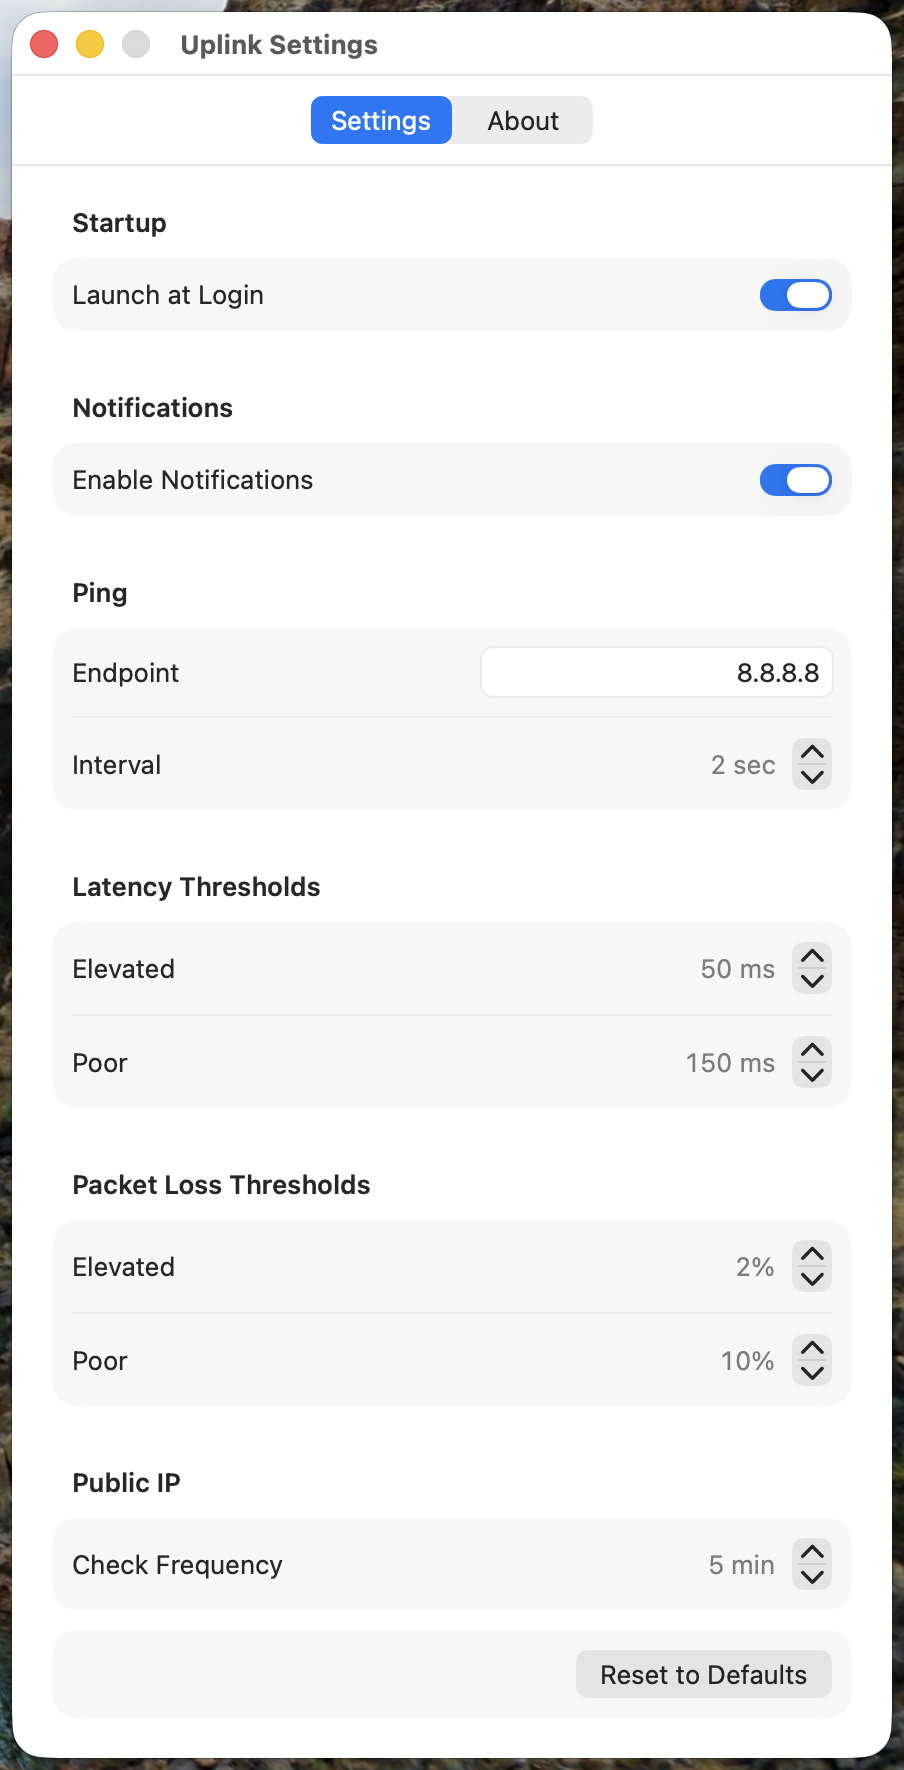
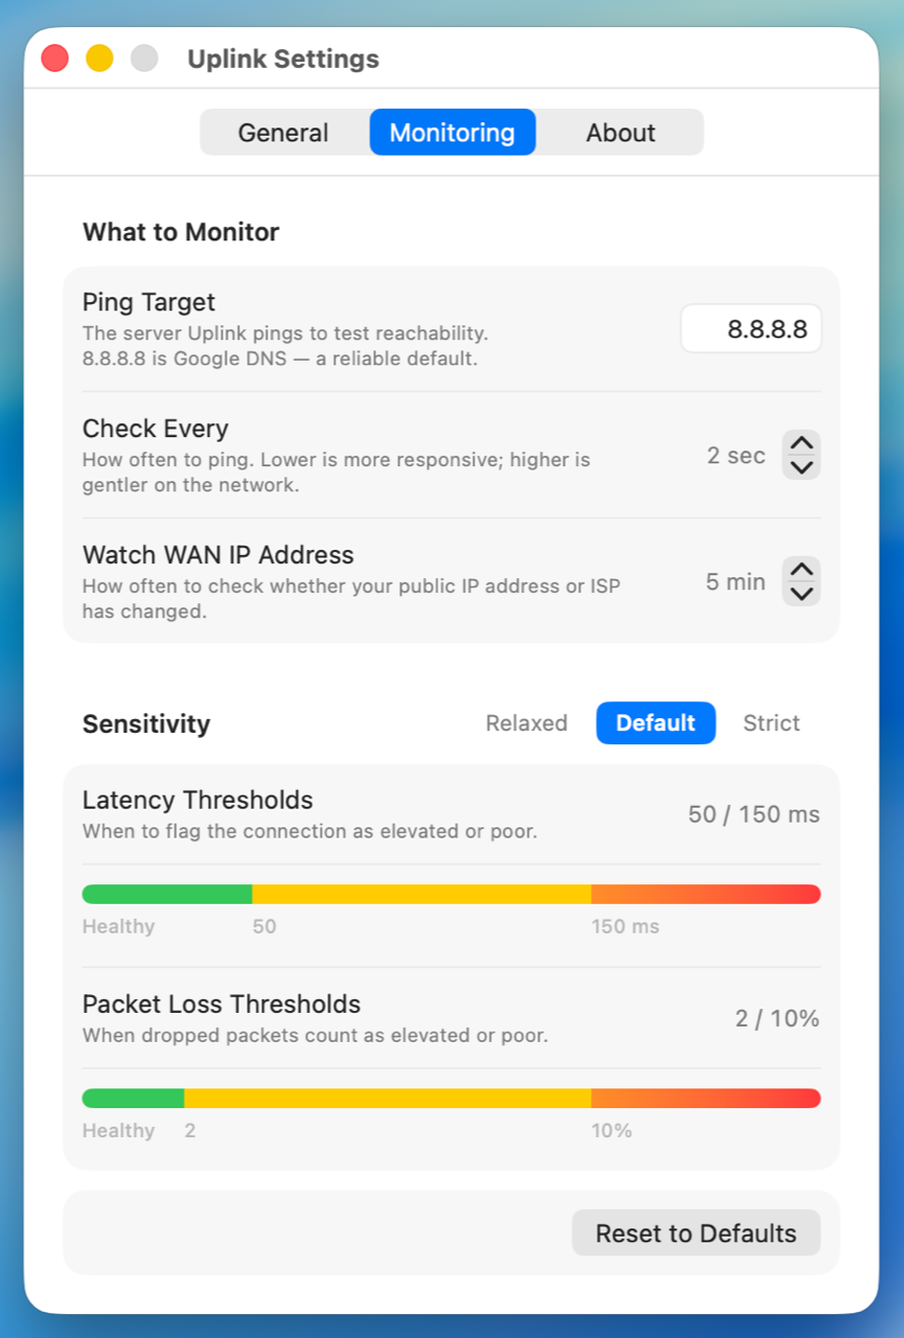
Update Uplink site for 1.6.0
Rewrite the feature copy against the 1.6.0 App Store description and
release notes. The page still described the 1.5-era app: 24 hours of
history, a sparkline with red X marks, and a Settings window with two
tabs and a scrolling list.

Copy changes:
- Menu bar section now describes the neutral-when-healthy icon and the
  yellow/orange/red escalation with a single explanatory number.
- Sparkline section covers the new hover readout (exact latency, elapsed
  time, or "No reply" on timeout) and drops the red-X claim.
- New "The measurement is real" section: in-app ICMP over the
  unprivileged socket, median-based classification over a rolling
  two-minute window, outages only after sustained failure.
- History section rewritten for the full year of retention, the
  plain-language verdict, summary stats, hoverable timeline, day-grouped
  event log, and sleep shown as unmonitored time.
- New "Evidence for your ISP" section for the time-range views and CSV
  export.
- Settings section covers the General/Monitoring/About split and the
  Relaxed/Default/Strict sensitivity presets.
- Smaller additions: interface name alongside connection type, the
  five-minute notification rate limiter, the fully translated History
  window, and the sandboxed universal binary.

Screenshots: the three images showed a UI that no longer exists, most
visibly the old Settings layout the new copy says is gone. Replaced with
crops from the 1.6.0 App Store screenshots at the original dimensions
[…]

diff --git a/apps/uplink/index.html b/apps/uplink/index.html
@@ -32,67 +32,72 @@
             <img src="/apps/uplink/img/icon.png" alt="Uplink app icon" class="app-icon">
             <h1>Uplink</h1>
             <p class="lead">Know when your internet is the problem.</p>
-            <p class="tagline">A native macOS menu bar app that quietly watches your connection. When latency spikes or packets start dropping, it's the first thing to tell you — before your Zoom call stutters, before your game rubber-bands, before you waste an hour blaming the other end.</p>
+            <p class="tagline">A native macOS menu bar app that quietly watches your connection. When latency spikes or packets start dropping, it's the first thing to tell you — before your Zoom call stutters, before your game rubber-bands, before you waste an hour blaming the other end. And it keeps a full year of history, so you can prove it later.</p>
             <p class="app-store"><a href="https://apps.apple.com/us/app/uplink-network-monitor/id6762632231?mt=12">Download on the Mac App Store</a></p>
             <p class="requirements">Requires macOS 13 Ventura or newer. Apple Silicon or Intel.</p>
         </div>
 
         <div class="screenshot-block">
-            <img src="/apps/uplink/img/popover.png" alt="Uplink popover showing a healthy connection with latency sparkline and current metrics" class="screenshot screenshot-popover">
+            <img src="/apps/uplink/img/popover.png" alt="Uplink popover showing a healthy connection with a latency sparkline, current latency and packet loss, min / avg / max, and the connection type, ISP, and WAN IP address" class="screenshot screenshot-popover">
         </div>
 
         <div class="features">
 
             <div class="feature">
-                <h2>At-a-glance status</h2>
-                <p>Glance up. If the menu bar icon is calm, you're fine. If it's flashing a warning, your connection is — and you can stop guessing.</p>
+                <h2>Silent until it isn't</h2>
+                <p>The menu bar icon stays neutral while your connection is healthy — no color, no numbers, no nagging. It turns yellow when latency or packet loss is elevated, orange when it's poor, and red when the connection is gone entirely, adding a single number that explains why.</p>
             </div>
 
             <div class="feature">
-                <h2>A real sparkline</h2>
-                <p>Click the icon. You get a two-minute latency graph, current ping and packet loss, and min / avg / max stats. Failed pings show up as red X marks right on the timeline, so you can see loss events exactly when they happened.</p>
+                <h2>A sparkline you can interrogate</h2>
+                <p>Click the icon for a two-minute latency graph, current ping and packet loss, and min / avg / max for the window. Hover any point on the chart to see that sample's exact latency and how long ago it was measured — or "No reply," if that particular ping timed out.</p>
             </div>
 
             <div class="feature">
-                <h2>Context-aware status</h2>
-                <p>It doesn't just say "Poor." It says <b>Poor Latency</b> or <b>Elevated Packet Loss</b> so you know which knob is turning. When both go sideways, it falls back to a single verdict using the worse of the two.</p>
+                <h2>The measurement is real</h2>
+                <p>Uplink sends ICMP Echo Requests from inside the app using the same unprivileged socket path macOS's own <i>ping</i> uses — no subprocess, no sudo, no kernel extension. Latency is classified on the median of successful pings in a rolling two-minute window, so a single 500 ms spike won't flip the indicator unless it's part of a pattern. Outages are only recorded after sustained failure, so brief blips never pollute your statistics.</p>
             </div>
 
             <div class="feature">
                 <h2>Your network, always visible</h2>
-                <p>Uplink watches your WAN address and your active connection type (Wi-Fi, Ethernet, VPN, cellular) in the background and surfaces both in the popover. Catch a silent DHCP renewal, a VPN hand-off, or a network switch without digging through System Settings. Click the IP address to copy it.</p>
+                <p>The popover shows your connection type <i>and</i> the interface behind it — "Ethernet (en0)" — so you can tell a dock's Ethernet from the built-in port, or spot which tunnel a VPN is using. Your ISP and public-facing WAN IP sit right below, watched in the background. Catch a silent DHCP renewal, a VPN hand-off, or a network switch without digging through System Settings. Click the IP address to copy it.</p>
             </div>
 
             <div class="feature">
                 <h2>Notifications that earn their buzz</h2>
-                <p>A system notification when latency crosses into Poor territory, when your public IP changes, or when your connection type switches. Nothing for routine fluctuations. One toggle in Settings to go fully silent.</p>
+                <p>A system notification the moment your connection degrades, or when your WAN IP changes — once, not fifty times. A built-in rate limiter requires a sustained five-minute recovery before alerting you about the same metric again. One toggle in Settings to go fully silent.</p>
             </div>
 
             <div class="feature">
-                <h2>Twenty-four hours of history</h2>
-                <p>Every time latency or packet loss crosses a threshold — or your public IP changes, or your connection jumps between Wi-Fi and Ethernet — Uplink logs the transition. Right-click → History to see what your connection's been up to — perfect when your kid insists "it was fine ten minutes ago."</p>
-                <img src="/apps/uplink/img/history.png" alt="Uplink History window showing latency transitions over time" class="screenshot">
+                <h2>A full year of history</h2>
+                <p>History leads with a plain-language verdict — "Reliable connection — 99.98% uptime" — before any numbers, then backs it up with uptime, total downtime, disruption count, and worst recorded latency. A color-coded timeline shows your connection state at a glance; hover anywhere to see what was happening at that moment. Below it, an event log grouped by day under sticky headers: latency spikes, packet-loss events, outages, connection changes, and WAN IP changes. Sleep is shown honestly as unmonitored time, not as a stretched-out guess.</p>
+                <img src="/apps/uplink/img/history.png" alt="Uplink History window showing an uptime verdict, summary statistics, a color-coded event timeline, and an event log grouped by day" class="screenshot">
+            </div>
+
+            <div class="feature">
+                <h2>Evidence for your ISP</h2>
+                <p>Switch between the last 12 hours, 24 hours, 7 days, 30 days, or everything recorded — then export any view to CSV. Useful when "the internet keeps dropping" needs to become a support ticket with dates and numbers attached.</p>
             </div>
 
             <div class="feature">
                 <h2>Tune it to your connection</h2>
-                <p>Ping interval, target host, latency and packet-loss thresholds, public-IP check frequency, launch at login, notifications — all configurable from a native settings window. Defaults are sensible; you won't need to touch them.</p>
-                <img src="/apps/uplink/img/settings.png" alt="Uplink Settings window with toggles for launch-at-login and notifications, and knobs for ping target, interval, latency and packet-loss thresholds, and public IP check frequency" class="screenshot screenshot-settings">
+                <p>Settings is split into General, Monitoring, and About — nothing scrolls. Pick a ping target and check interval, decide how often to watch your WAN IP, and choose a sensitivity preset — Relaxed, Default, or Strict — so you never need an opinion about milliseconds. Or set latency and packet-loss thresholds yourself. Launch at login and the optional menu bar readout are one checkbox each.</p>
+                <img src="/apps/uplink/img/settings.png" alt="Uplink Settings window on the Monitoring tab, showing ping target, check interval, WAN IP watch frequency, sensitivity presets, and latency and packet-loss thresholds" class="screenshot screenshot-settings">
             </div>
 
             <div class="feature">
-                <h2>Ten languages</h2>
-                <p>English, German, Spanish, French, Italian, Japanese, Korean, Portuguese (Brazil), Simplified Chinese, Traditional Chinese.</p>
+                <h2>Ten languages, all the way through</h2>
+                <p>English, German, Spanish, French, Italian, Japanese, Korean, Portuguese (Brazil), Simplified Chinese, and Traditional Chinese — including every corner of the History window.</p>
             </div>
 
             <div class="feature">
                 <h2>Quiet and respectful</h2>
-                <p>No dock icon. No telemetry. No tracking. No account. Uplink runs in the menu bar, and that's it. Your history lives on your Mac in a plain JSON file that auto-prunes after 24 hours. Your public IP is fetched over HTTPS from a single API endpoint and validated before it ever touches the UI.</p>
+                <p>No dock icon. No telemetry. No tracking. No account. No crash reporting. No ads. Uplink makes exactly two kinds of outbound request: ICMP echo packets to the host you configure, and a periodic HTTPS lookup to determine your public IP address and ISP. Your settings, history, and last-known IP live only on your Mac.</p>
             </div>
 
             <div class="feature">
                 <h2>A menu bar app, as native as it gets</h2>
-                <p>Uplink is a "mac-ass Mac app." No Electron. No cross-platform framework. No background service. Just SwiftUI, Combine, and AppKit.</p>
+                <p>Uplink is a "mac-ass Mac app." No Electron. No cross-platform framework. No background service. Just SwiftUI, Combine, and AppKit — a sandboxed, outbound-only universal binary that runs natively on Apple Silicon and Intel.</p>
             </div>
 
         </div>

diff --git a/apps/uplink/privacy/index.html b/apps/uplink/privacy/index.html
@@ -24,7 +24,7 @@
 
         <div id="header">
             <h1>Uplink Privacy Policy</h1>
-            <p class="updated">Last updated April 20, 2026</p>
+            <p class="updated">Last updated August 8, 2026</p>
         </div>
 
         <div class="legal">
@@ -37,15 +37,15 @@
             <h2>Information stored on your Mac</h2>
             <p>To do its job, Uplink keeps a small amount of data locally on your Mac. This data never leaves your device.</p>
             <ul>
-                <li><b>Connection history.</b> A rolling log of connection events (latency transitions, packet loss transitions, public IP changes, Wi-Fi / Ethernet / VPN / cellular switches) is written to a plain JSON file inside Uplink's app container. Entries older than 24 hours are pruned automatically. You can clear this history at any time from the History window.</li>
-                <li><b>Preferences.</b> Your Uplink settings (ping target, ping interval, latency and packet-loss thresholds, public-IP check frequency, launch-at-login, notifications toggle) are saved to macOS User Defaults for Uplink's app container.</li>
+                <li><b>Connection history.</b> A rolling log of connection events (latency spikes, packet-loss events, outages, WAN IP and ISP changes, Wi-Fi / Ethernet / VPN switches) is written inside Uplink's app container. Entries older than one year are pruned automatically. You can export this history to a CSV file of your choosing, and you can clear it at any time, from the History window.</li>
+                <li><b>Preferences.</b> Your Uplink settings (ping target, check interval, sensitivity preset, latency and packet-loss thresholds, WAN IP check frequency, launch-at-login, menu bar readout, notifications toggle) and your last-known WAN IP address are saved to macOS User Defaults for Uplink's app container.</li>
             </ul>
 
             <h2>Network activity</h2>
             <p>Uplink makes two kinds of network requests. Both are initiated by your Mac and scoped to measuring the health of your connection.</p>
             <ul>
                 <li><b>Pings.</b> Uplink sends ICMP echo requests to a ping target you configure (default: 8.8.8.8) to measure latency and packet loss. You can change the target to any host you prefer.</li>
-                <li><b>Public IP lookups.</b> On a schedule you configure, Uplink fetches your current public IP address over HTTPS from a single public API endpoint. The response is validated before being displayed.</li>
+                <li><b>WAN IP lookups.</b> On a schedule you configure, Uplink fetches your current public IP address and ISP over HTTPS from a single public API endpoint (api.ipinfo.io). The response is validated before being displayed.</li>
             </ul>
             <p>No other network requests are made. Uplink does not contact any analytics, telemetry, advertising, or tracking services.</p>
 
